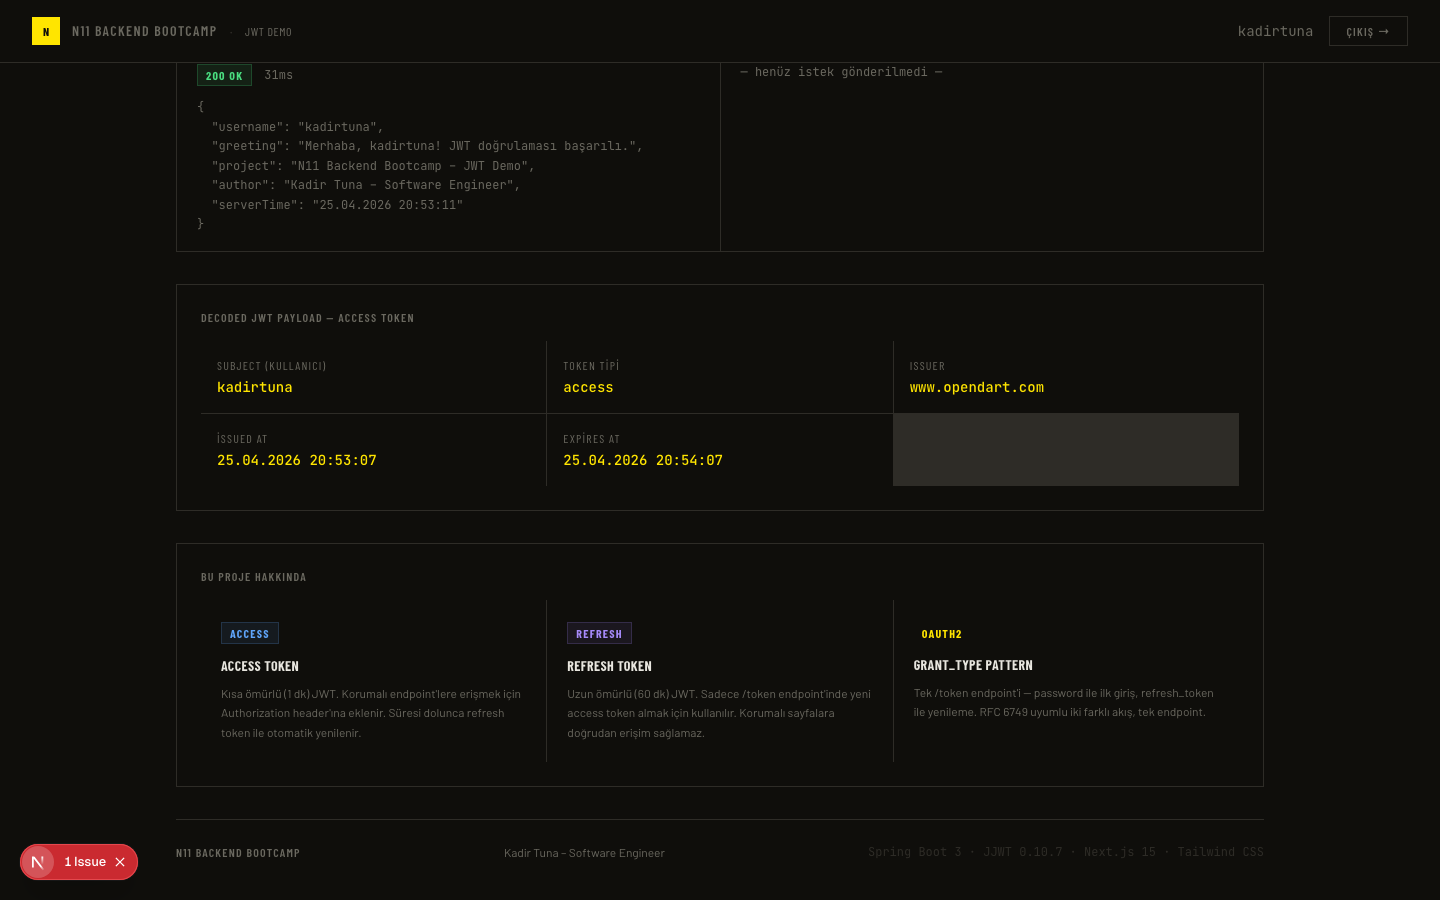
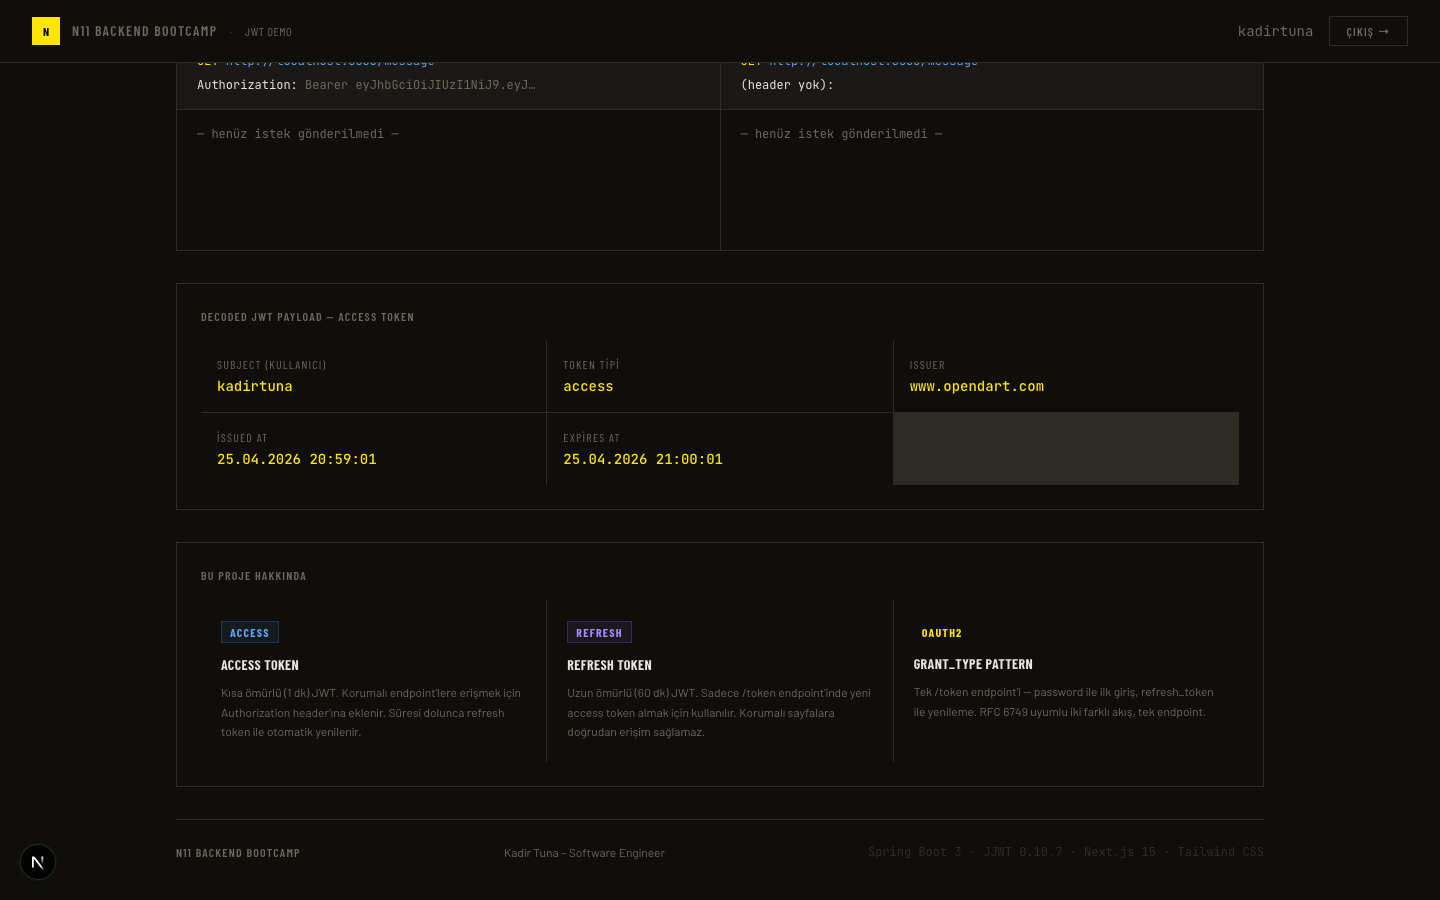
fix: resolve hydration mismatch in dashboard tokenPreview
tokenPreview was computed at render time using typeof window check,
causing SSR/client mismatch (server: "Bearer <token>", client: real
token). Moved to useState + useEffect so both sides start with the
same placeholder. Retook all 5 screenshots without the error badge.

diff --git a/homework2/frontend/app/dashboard/page.tsx b/homework2/frontend/app/dashboard/page.tsx
@@ -228,6 +228,8 @@ export default function DashboardPage() {
   const [jwtPayload, setJwtPayload] = useState<Record<string, string>>({});
   const isRefreshingRef = useRef(false);
 
+  const [tokenPreview, setTokenPreview] = useState("Bearer <token>");
+
   const [authResult, setAuthResult] = useState<TestResult>(null);
   const [noAuthResult, setNoAuthResult] = useState<TestResult>(null);
   const [authLoading, setAuthLoading] = useState(false);
@@ -277,6 +279,7 @@ export default function DashboardPage() {
     if (!accessToken) { router.push("/"); return; }
     setUsername(getUsername(accessToken));
     updateJwtPayload(accessToken);
+    setTokenPreview(`Bearer ${accessToken.slice(0, 24)}…`);
     getWelcomeInfo(accessToken)
       .then(setWelcomeInfo)
       .catch(() => setWelcomeInfo(null));
@@ -353,11 +356,6 @@ export default function DashboardPage() {
     clearTokens();
     router.push("/");
   }
-
-  const { accessToken } = typeof window !== "undefined" ? getTokens() : { accessToken: null };
-  const tokenPreview = accessToken
-    ? `Bearer ${accessToken.slice(0, 24)}…`
-    : "Bearer <token>";
 
   return (
     <div className="min-h-screen" style={{ background: "var(--color-bg)", fontFamily: "var(--font-body)" }}>
